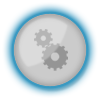
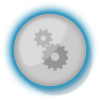
Just some graphics edited

Changed region(s): [[0.45, 0.6, 0.93, 0.96]]

diff --git a/source/filelist.h b/source/filelist.h
@@ -20,6 +20,12 @@ extern const u32	bg_music_ogg_size;
 extern const u8		credits_music_ogg[];
 extern const u32	credits_music_ogg_size;
 
+extern const u8		credits_button_png[];
+extern const u32	credits_button_png_size;
+
+extern const u8		credits_button_over_png[];
+extern const u32	credits_button_over_png_size;
+
 extern const u8		button_over_pcm[];
 extern const u32	button_over_pcm_size;
 
@@ -28,9 +34,6 @@ extern const u32	button_click_pcm_size;
 
 extern const u8		button_click2_pcm[];
 extern const u32	button_click2_pcm_size;
-
-extern const u8		logo_png[];
-extern const u32	logo_png_size;
 
 extern const u8     tooltip_png[];
 extern const u32    tooltip_png_size;

diff --git a/source/menu.cpp b/source/menu.cpp
@@ -3232,13 +3232,13 @@ static int MenuSettings()
 	lockBtn.SetTrigger(&trigA);
 	lockBtn.SetEffectGrow();
 
-	GuiImageData logo(logo_png);
+	GuiImageData logo(credits_button_png);
 	GuiImage logoImg(&logo);
-	GuiImageData logoOver(logo_png);
+	GuiImageData logoOver(credits_button_over_png);
 	GuiImage logoImgOver(&logoOver);
 	btnLogo = new GuiButton(logoImg.GetWidth(), logoImg.GetHeight());
 	btnLogo->SetAlignment(ALIGN_CENTRE, ALIGN_BOTTOM);
-	btnLogo->SetPosition(0, -45);
+	btnLogo->SetPosition(0, -35);
 	btnLogo->SetImage(&logoImg);
 	btnLogo->SetImageOver(&logoImgOver);
 	btnLogo->SetEffectGrow();
